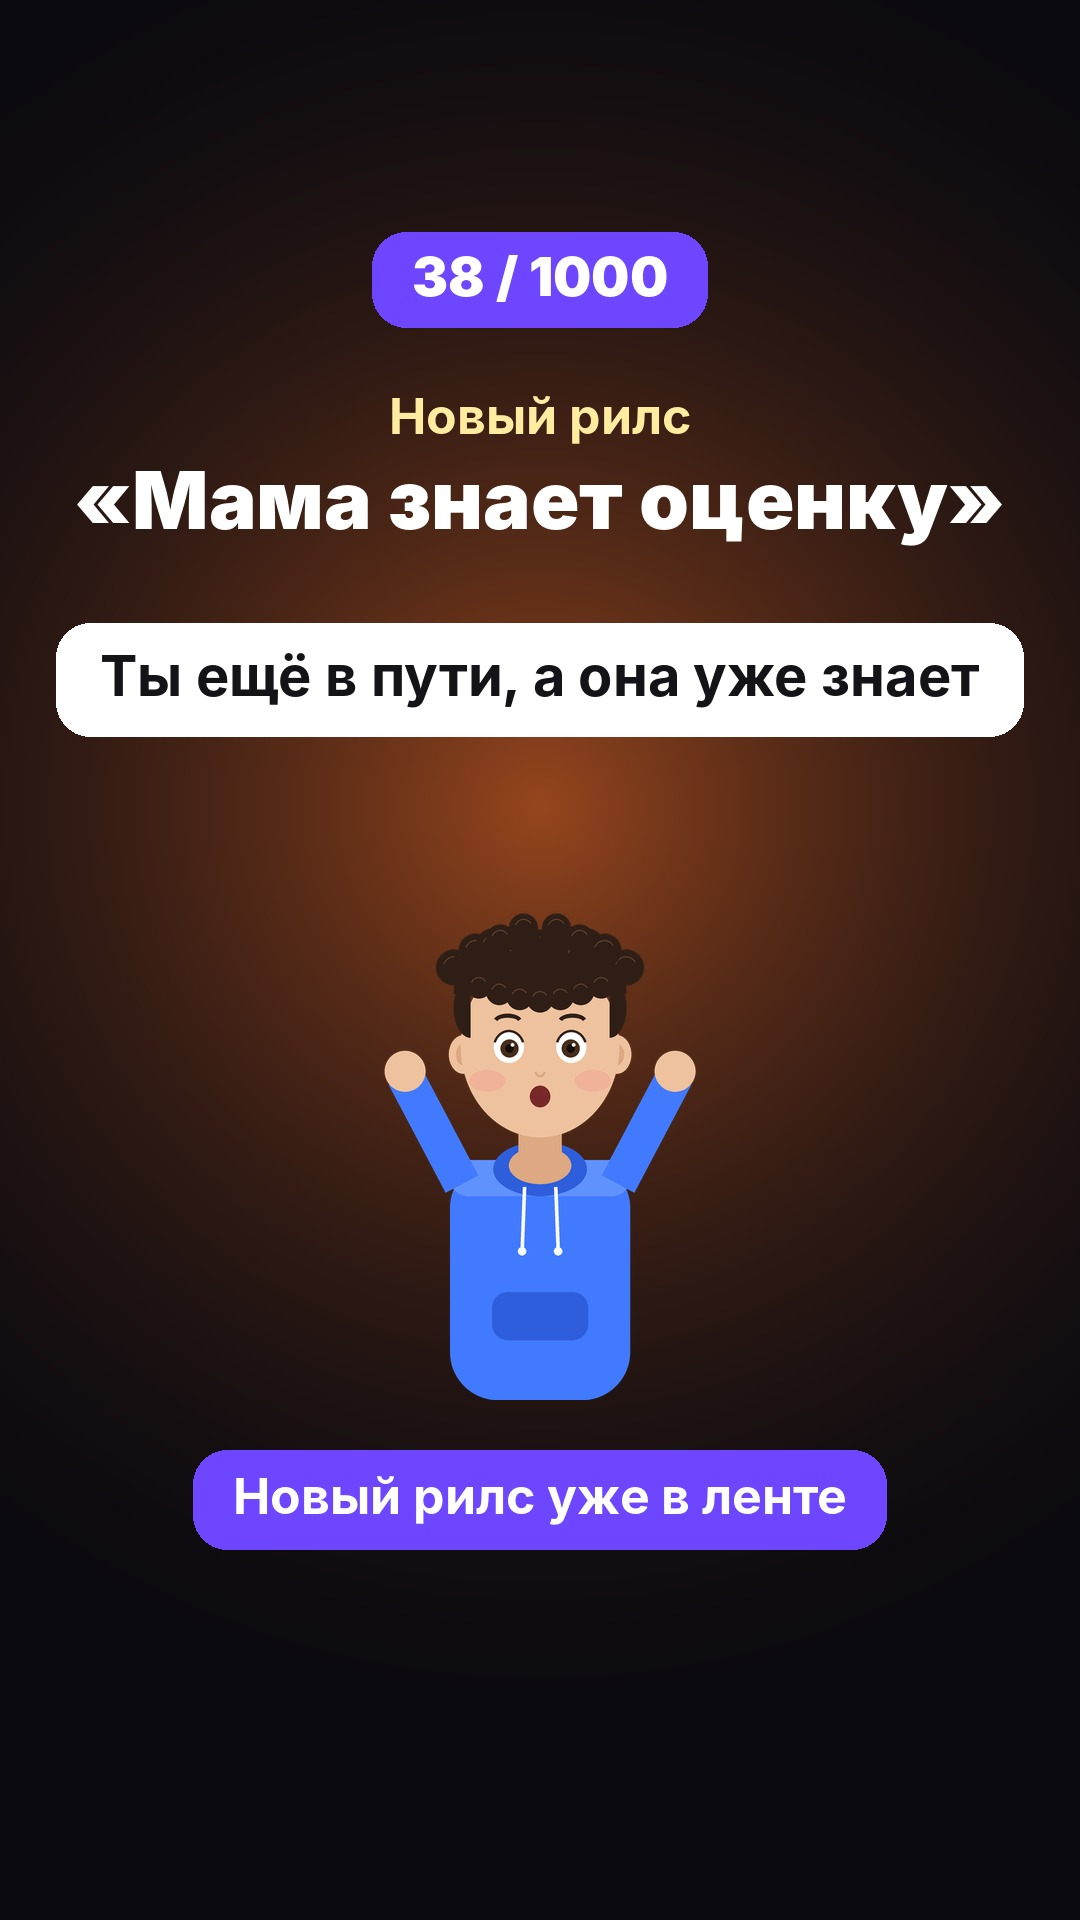
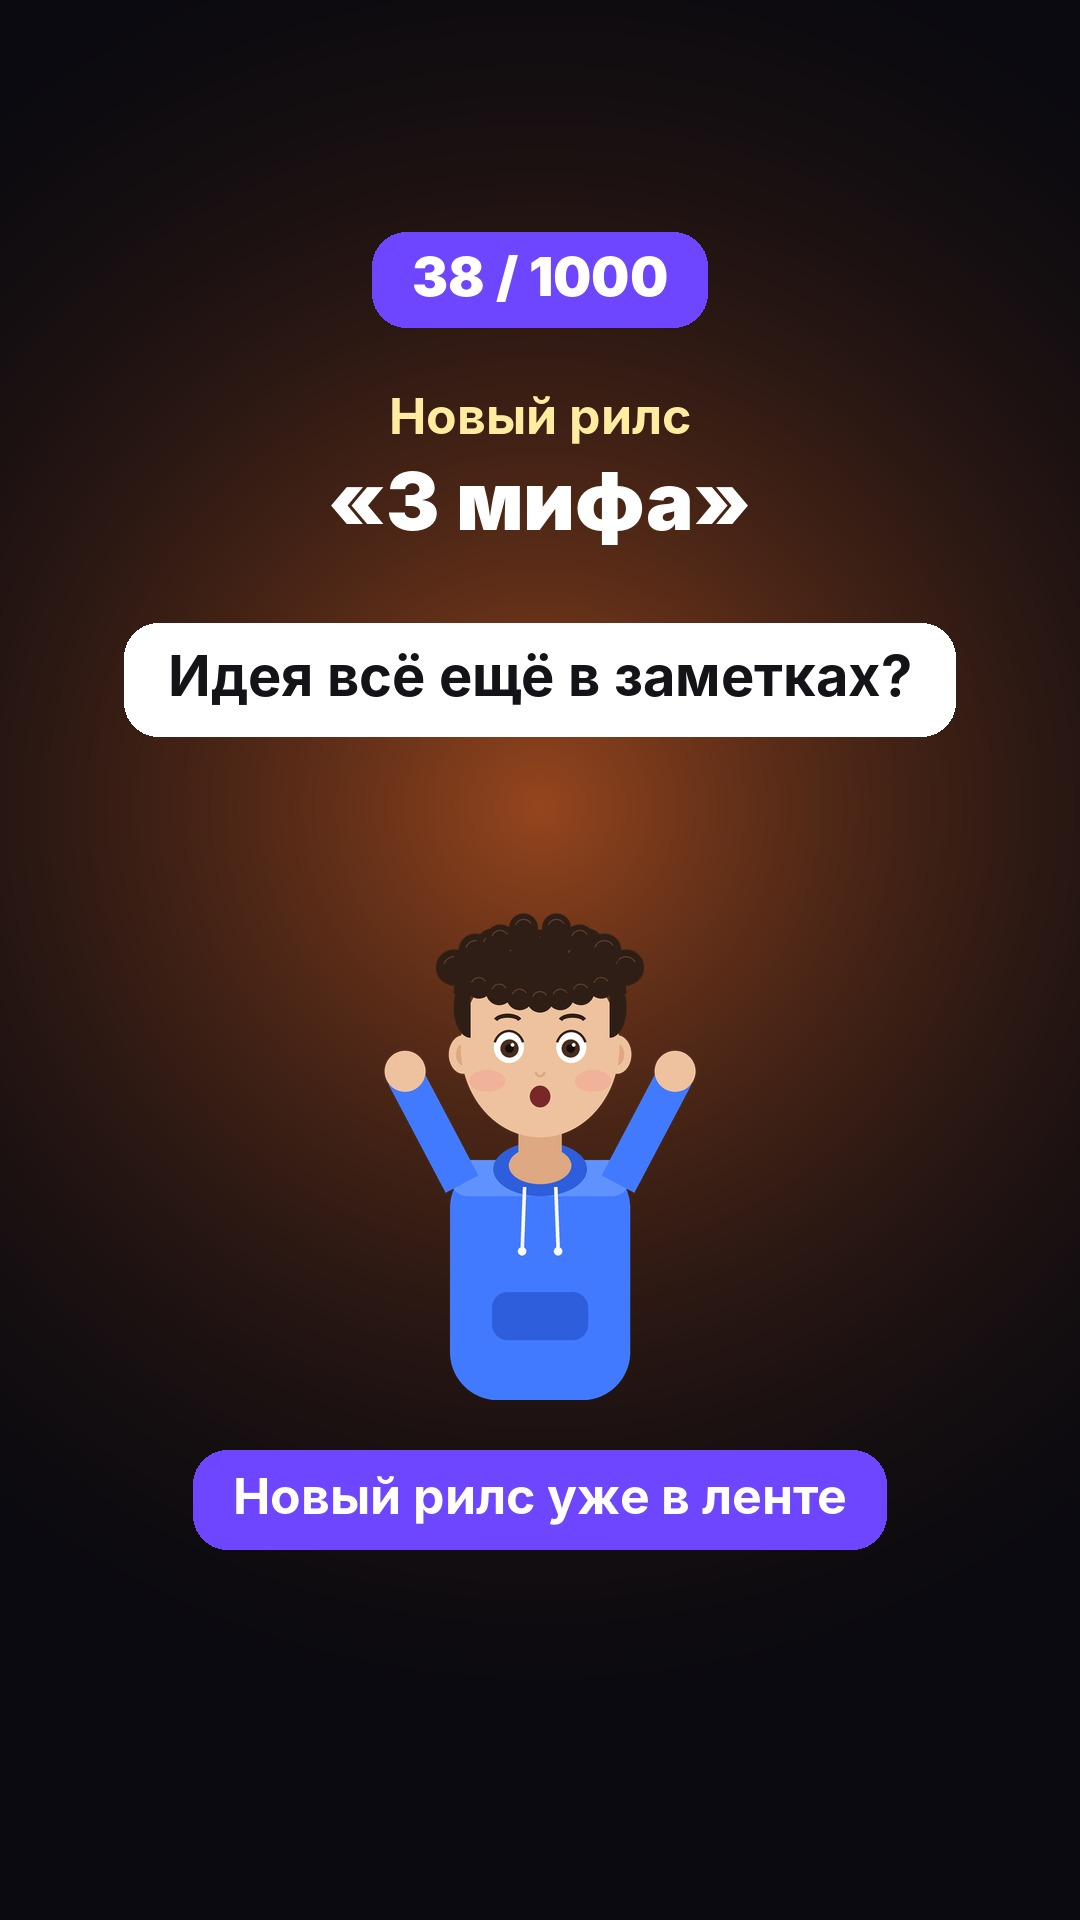
My School = игра-урок по QR: неверную витрину сняли, 20:10 — 3 мифа, истории перерисованы

Changed region(s): [[0.0306, 0.3125, 0.9472, 0.4062], [0.0611, 0.2188, 0.9167, 0.2812]]

diff --git a/tools/stories_daily.py b/tools/stories_daily.py
@@ -53,7 +53,7 @@ def s4(plan):  # портфолио
     c = bg((20, 90, 60)); badge(c, 280)
     txt(c, ["Что мы уже сделали"], 420, 72)
     apps = [(app_icon(200), "My Week", "планировщик"), (tile((52, 199, 89), "$"), "My Capital", "учёт капитала"),
-            (tile((255, 159, 10), "5"), "My School", "оценки и школа")]
+            (tile((255, 159, 10), "5"), "My School", "игра-урок по QR")]
     for i, (ic, name, sub) in enumerate(apps):
         x = W / 2 if i == 2 else (300 if i == 0 else 780); y = 680 + (i // 2) * 420
         paste_c(c, ic, x, y, 0.95)

diff --git a/SERIES.md b/SERIES.md
@@ -13,7 +13,8 @@
 7. Истории: 09:30 анонс (только 2 рилса!) + счётчик · 16:10 вопрос · 17:10 тизер · 18:10 портфолио · 20:10 «Новый рилс» (после r2) · 21:30 как заказать.
 8. Неделя-тест 24.11–30.11: сравнить средние просмотры/охват/пересылки рилса с 21–23.11 (≈25 просмотров) и записать вывод сюда.
 ГЛАВНОЕ, что делает Озодбек (без этого не взлетит): в первые 30–60 мин после рилса 20:10 переслать его в 5–10 чатов (класс, друзья, семья, Telegram-группы) и в свою личную историю; попросить 3–5 друзей переслать дальше. Именно так 18–19.11 получилось 52–54 пересылки и 400–1400 просмотров.
-- Готовый рилс «3 мифа» (queue/hold/2026-11-24_r3_myths.json, reels/2026-11-24_myths3.mp4) — поставить как r2 на 25.11 или 26.11 вместо нового, не тратить кредиты.
+- 24.11: «3 мифа» вышел как r2 в 20:10 вместо неверной витрины My School.
+- 25.11 r2 (20:10) = НОВАЯ витрина My School по правильному описанию: крючок вроде «Двоечник впервые поднял руку 😳 / Ikkichi birinchi marta qo‘l ko‘tardi», учитель показывает QR → класс сканирует → игра-урок, все стараются → завуч/директор видят результаты класса в админке. Повод переслать: «Отправь учителю, у которого скучные уроки». Сериал эп.6 тоже должен показывать My School именно так (игра по QR, админка у завуча и директора).
 
 ## ⚠ РОСТ ОХВАТА — ГЛАВНЫЕ ПРАВИЛА С 23.11 (Озодбек: «просмотров мало, исправлять»)
 Разбор Metricool 22.11 (просмотры / охват / ср. просмотр с / пролист. % / ПОДЕЛИЛИСЬ):
@@ -31,7 +32,8 @@ My Week 18.11: 1428 / 1103 / 5.2 / 77.6 / 52 · My Capital 19.11: 398 / 198 / 10
 
 ## Правила
 - Бизнес: Exclusive Apps — идею придумал Озодбек САМ (Мухаммада Юсуфа в роликах НЕТ, не упоминать) — делаем приложения по ТЗ клиента. Клиент присылает ТЗ → создаём → правки → готово. 50% предоплата. Телефон: +998 90 970 06 03.
-- Портфолио: My Week (планировщик), My Capital (учёт капитала), My School (оценки/школа). «Плов Экспресс» — НЕ наш проект, а просто сюжет рилса «Плов за час»: в портфолио и в списках «что мы сделали» не упоминать; сам рилс оставить (Озодбек, 20.11).
+- Портфолио: My Week (планировщик), My Capital (учёт капитала), My School (игра-урок по QR).
+- ⚠ ЧТО ТАКОЕ MY SCHOOL (Озодбек, 24.11 — до этого описывали НЕПРАВИЛЬНО «оценки/дневник/родители»): это ИГРА для уроков. Учитель запускает игру, чтобы урок был интересным — даже двоечники начинают стараться. Ученики заходят в игру, СКАНИРУЯ QR-КОД. Результаты класса видны в АДМИН-аккаунте, который есть только у ЗАВУЧА и ДИРЕКТОРА. Для учеников тоже есть свой раздел. НЕ писать про оценки в дневнике, уведомления родителям, фото домашки. Рилс reels/2026-11-24_school_show.mp4 («мама знает оценку») — НЕВЕРНЫЙ, не публиковать никогда. «Плов Экспресс» — НЕ наш проект, а просто сюжет рилса «Плов за час»: в портфолио и в списках «что мы сделали» не упоминать; сам рилс оставить (Озодбек, 20.11).
 - Стиль: как наши рилсы — плоские нарисованные персонажи, мокапы экранов приложения, белые «пилюли» с подписями, тёмный фон с цветным свечением, финал «Хотите своё приложение? Пришлите ТЗ — сделаем!» + телефон. Язык — русский.
 - КАЖДЫЙ рилс — с озвучкой (Озодбек просил). Видео рисуем кодом (PIL + ffmpeg, tools/), ИИ-видео ElevenLabs НЕ генерируем (дорого). Из ElevenLabs берём только голос (TTS) и бесплатную склейку (composition).
 - Голос героя: ElevenLabs voice_id g1G73EpCIdK4HUyDiLYF («Egor — Young & Energetic»), model eleven_v4, generations_count 1. Названия писать в тексте озвучки кириллицей: «Эксклюзив Аппс», «Май Вик», «Май Капитал», «Май Скул». Абзац = пауза.
@@ -208,6 +210,7 @@ My Week 18.11: 1428 / 1103 / 5.2 / 77.6 / 52 · My Capital 19.11: 398 / 198 / 10
 | 23.11 | 12:40 | сериал (диалог, 25 с) | Эп.4 «Вызвали к директору»: My School для района + парень в приёмной |
 | 23.11 | 16:10 | витрина приложения (trial) | My Capital «Сколько у тебя денег?» |
 | 23.11 | 18:10 | звонок-счётчик №2 | 38/1000, «1 рилс → 1 друг» |
+- 24.11 09:00: витрина My School снята (неверное описание продукта), в 20:10 — «3 мифа»; истории _2, _4, _6 перерисованы.
 - 24.11 08:40 (Озодбек онлайн): переход на РЕЖИМ РОСТА — r2 My School перенесён на 20:10, r3 «3 мифа» снят в queue/hold, подписи r1/r2 на ru+uz без «нас 38», история-анонс перерисована (2 рилса). Публикатор 16/17/18 теперь ещё и в 20:10.
 - 23.11 21:35 вечерний запуск: история s5 (как заказать) опубликована (media 17872114932663276). r2 (trial) и s6 по-прежнему НЕ опубликованы — trial reels недоступны (мало подписчиков), ждут решения Озодбека. Ответил на 4 комментария (эмодзи-реакции, вопросов про цену/сроки нет) за 21–23.11; данные Windsor из кэша (без обновления по запросу).
 | 24.11 | 12:40 | сериал (диалог, 27 с) | Эп.5 «Он скопировал моё приложение»: соперник, педсовет |
